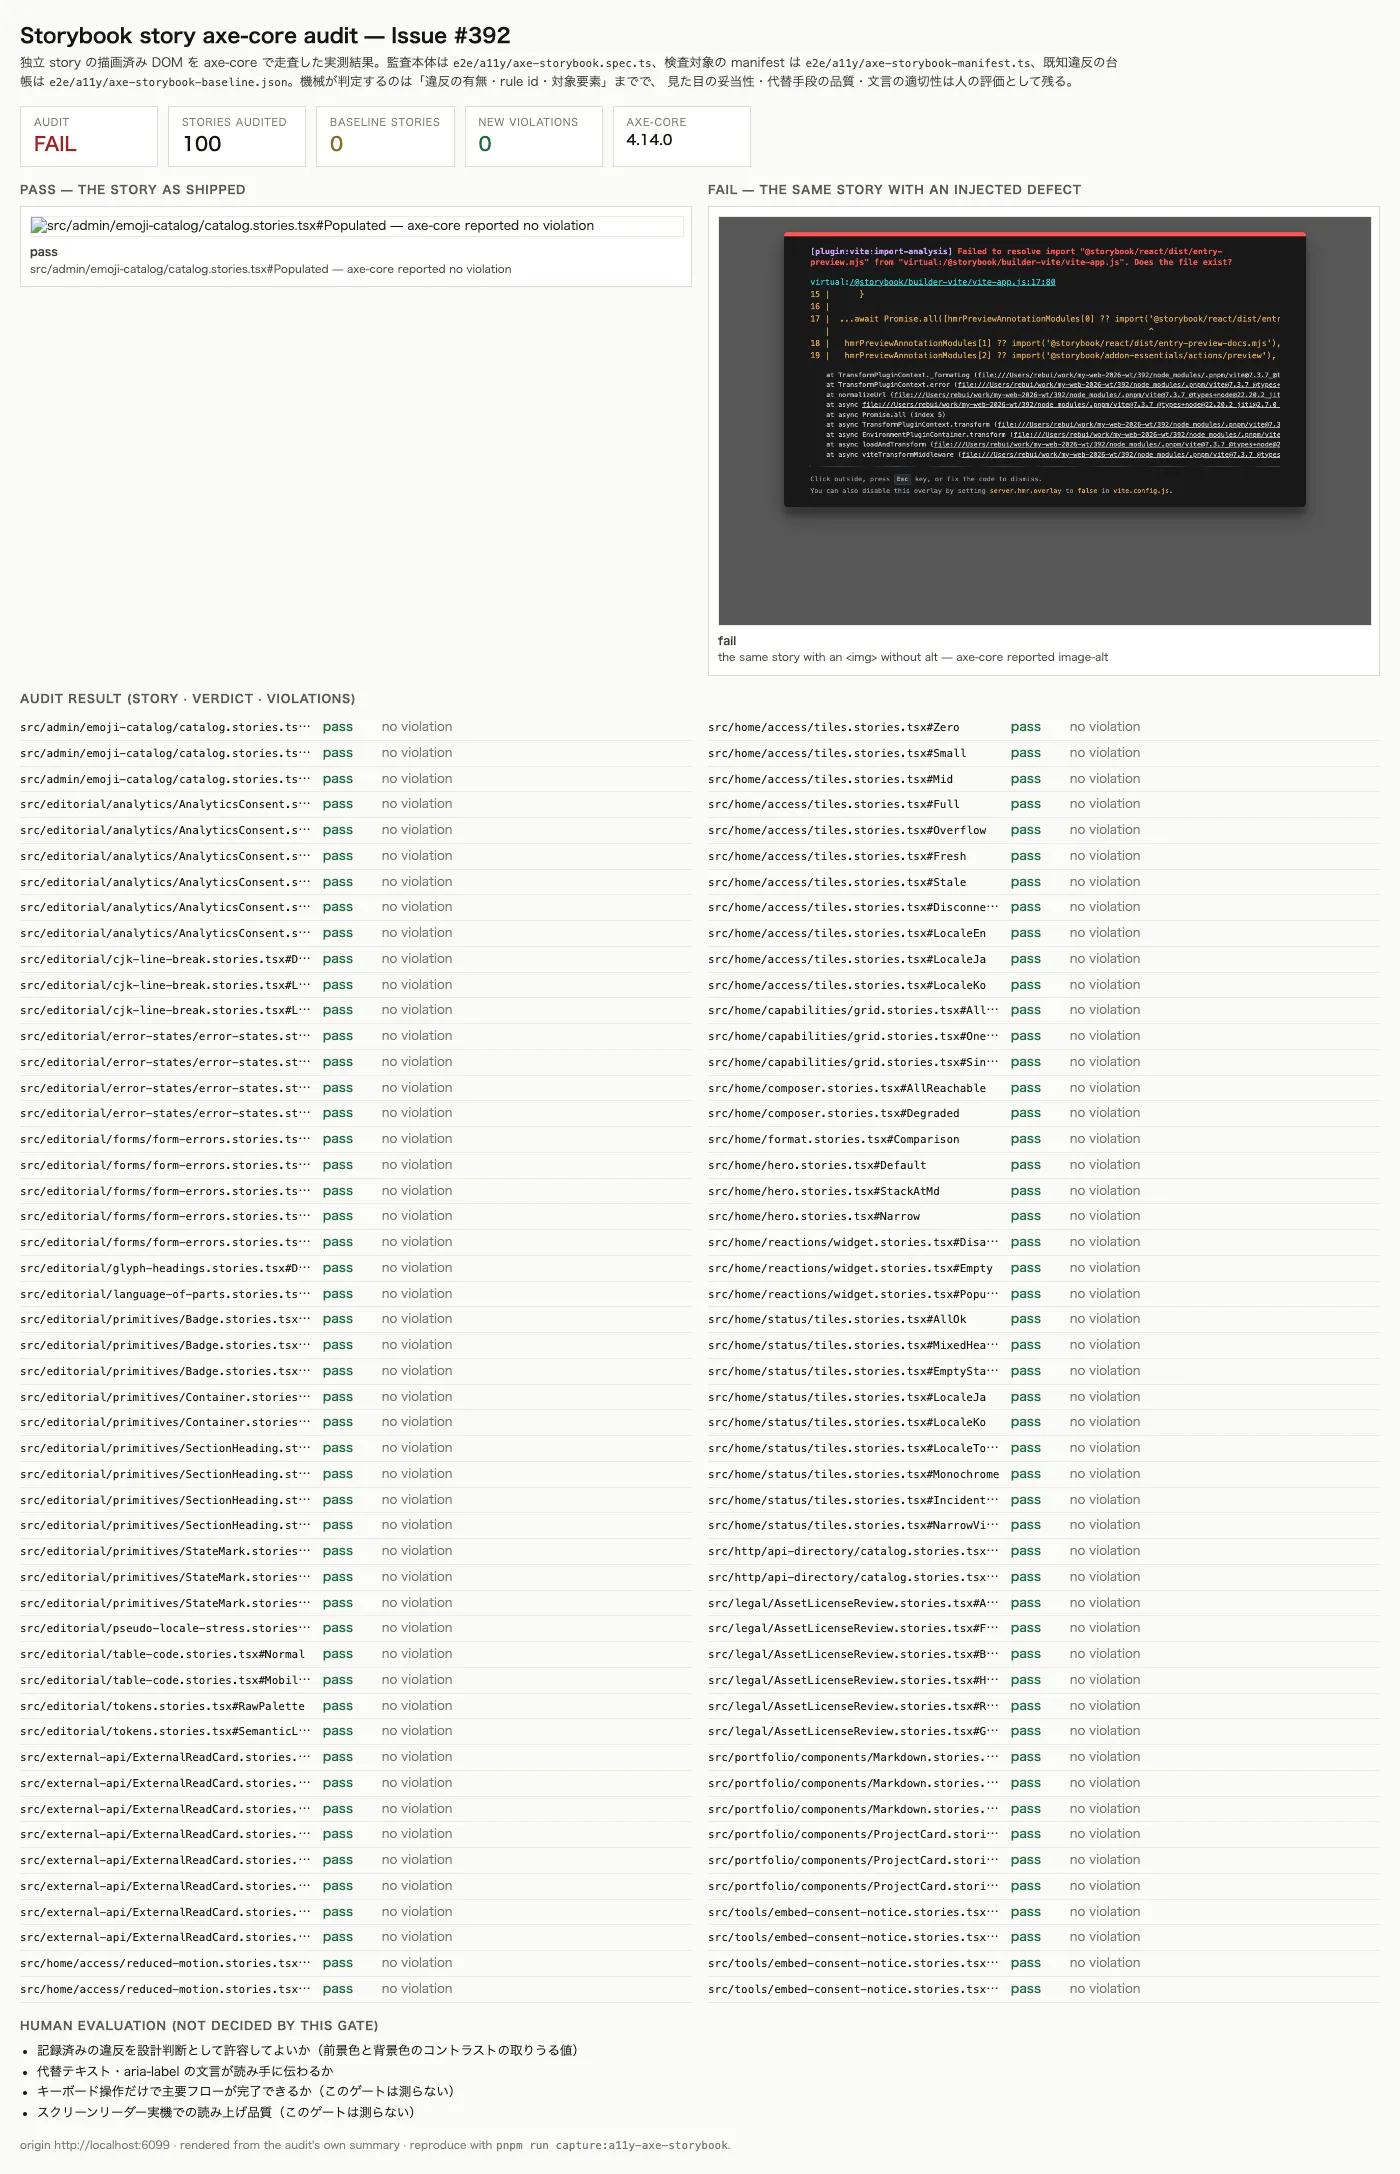
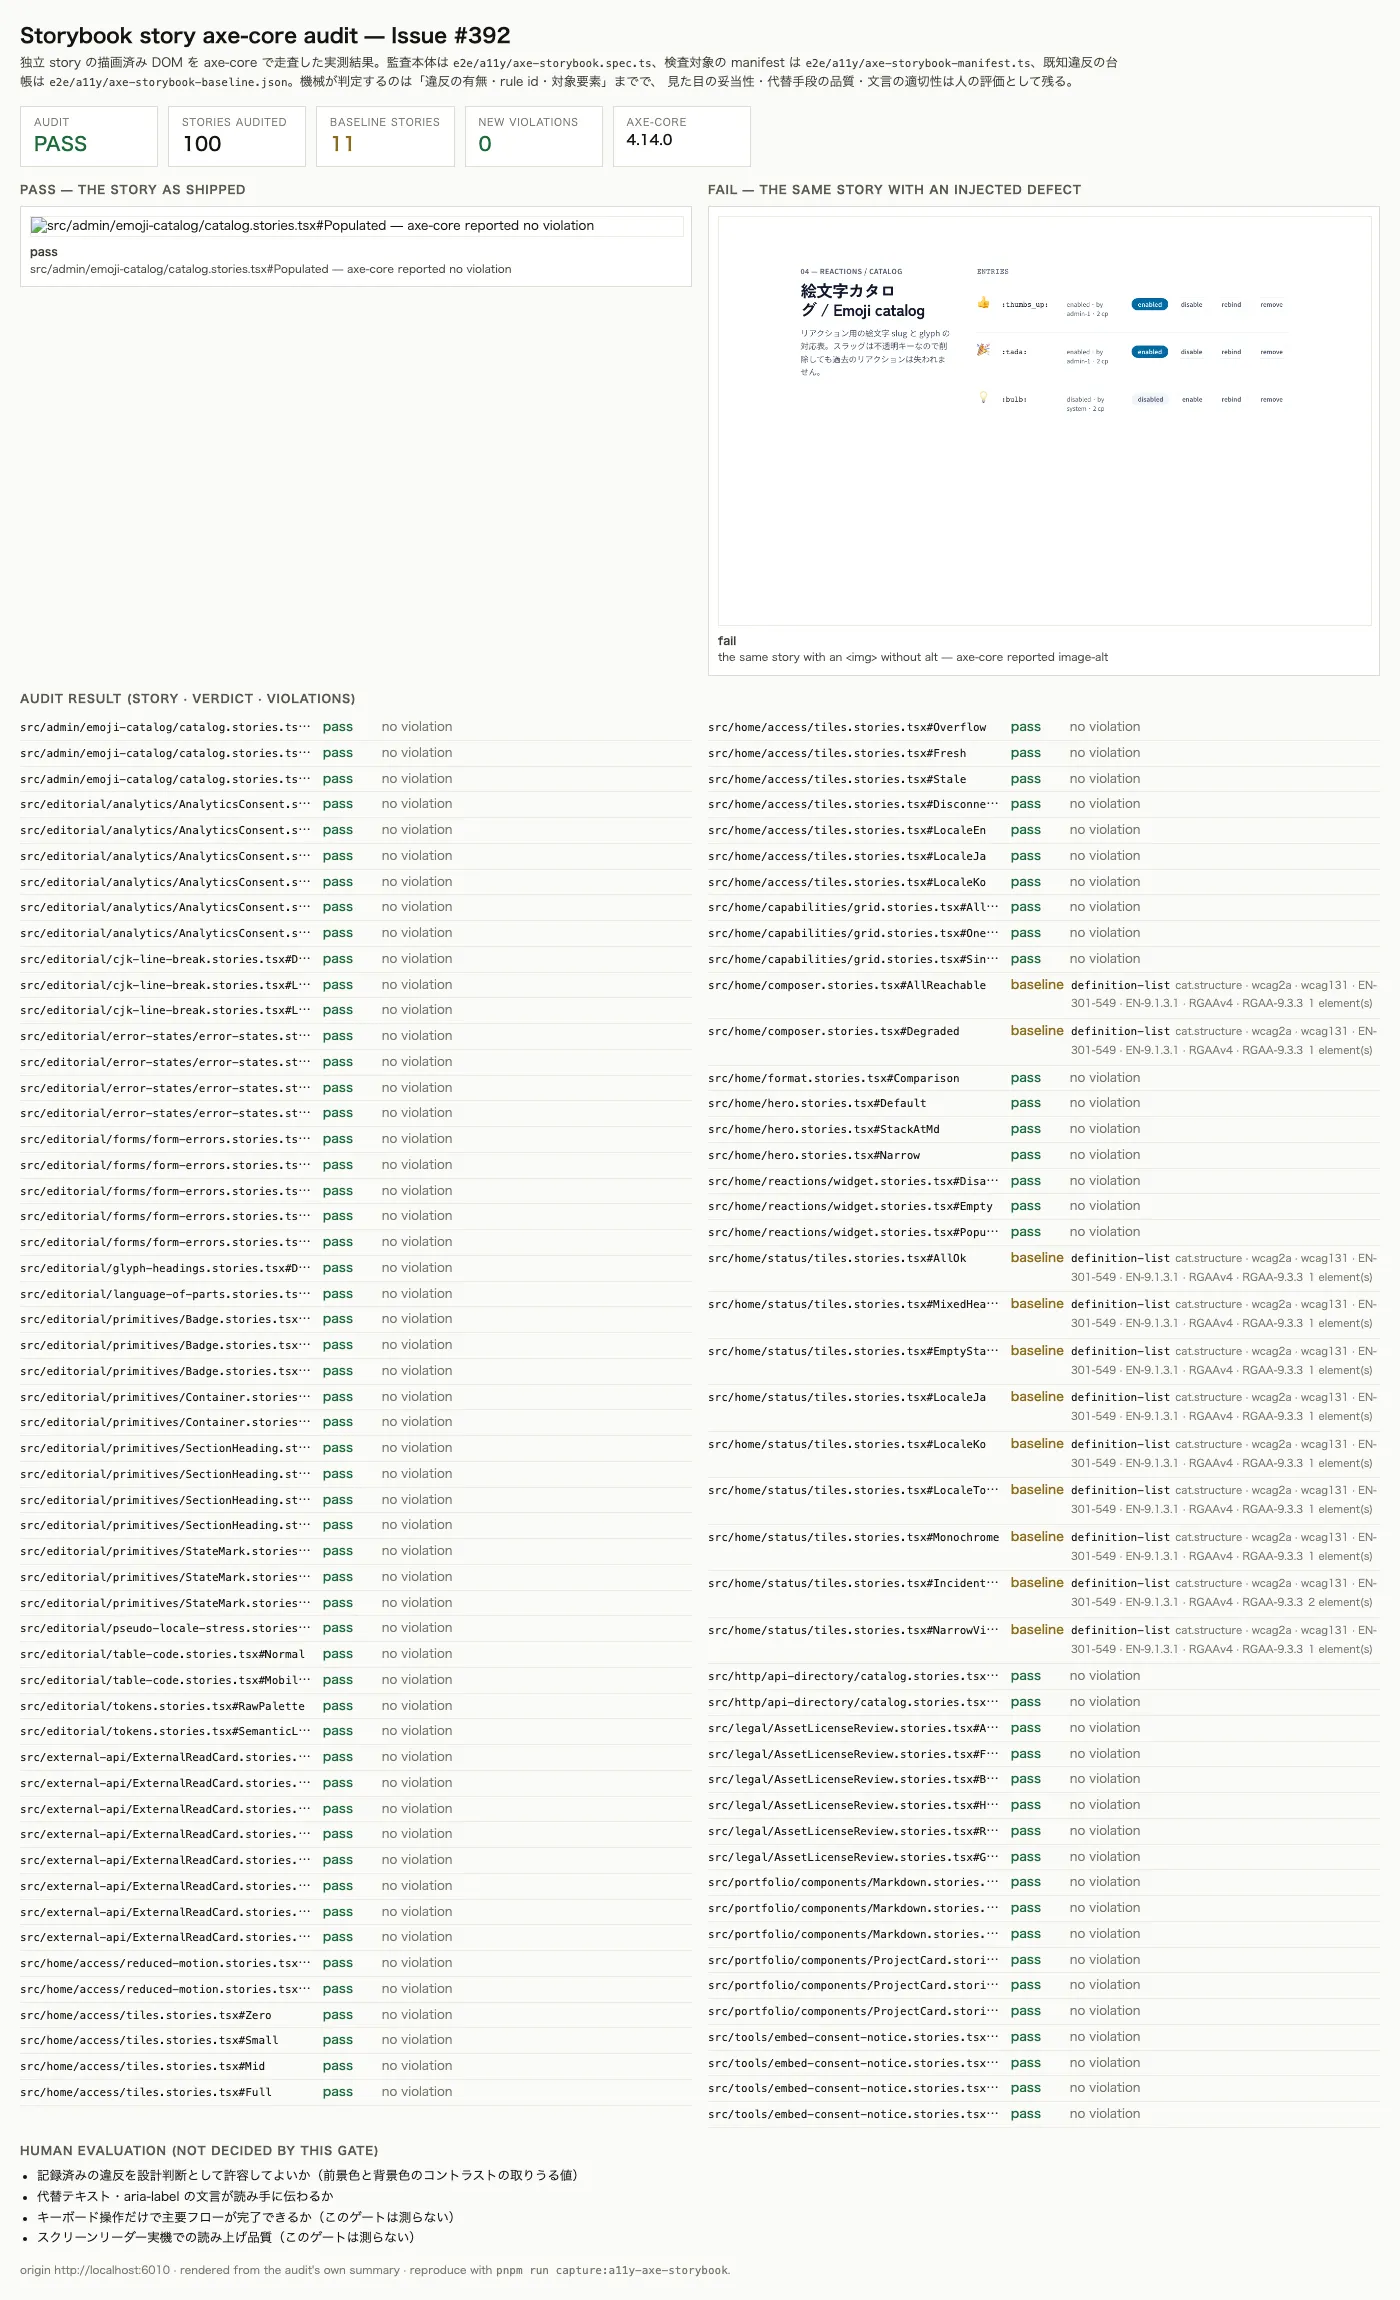
fix(a11y): make the Storybook axe audit measure rendered stories (#392)
The audit was validated against a Storybook dev server that could not
resolve `@storybook/react`: pnpm's strict layout keeps the framework's
preview entry out of the project root, so every story rendered into an
empty `#storybook-root`. The scan then measured nothing, the ledger came
out empty, and the artefact pictured a run that never happened.

- package.json: declare `@storybook/react` as a direct devDependency, so
  the dev server resolves the preview entry and the stories render.
- e2e/a11y/axe-storybook-baseline.json: record the 11 stories that
  measure a `definition-list` violation (SC 1.3.1) — the home status
  list's `<dl>` content model, the same defect the route ledger records
  for `/`.
- e2e/a11y/axe-storybook-manifest.ts: declare the two affected files
  `baseline`; a `pass` declaration may not carry a tolerated violation.
- scripts/capture-a11y-axe-storybook.mjs: refuse to write the artefact
  when the gate is red, so a broken run cannot be photographed as a
  measurement.
- docs/verification/a11y/axe-storybook.md: record the dependency, the
  empty first ledger, and the measured counts.
- docs/verification/a11y/axe-storybook-pass-fail.webp: regenerate from
  the run that measured rendered stories.

diff --git a/e2e/a11y/axe-storybook-manifest.ts b/e2e/a11y/axe-storybook-manifest.ts
@@ -250,8 +250,8 @@ export const AUDITED_STORY_FILES: readonly AuditedStoryFile[] = [
 		file: 'src/home/composer.stories.tsx',
 		title: 'home/HomePage',
 		exports: ['AllReachable', 'Degraded'],
-		expect: 'pass',
-		note: 'Home composition — the whole home surface composed.',
+		expect: 'baseline',
+		note: 'Home composition — the whole home surface composed. The home status list breaks the `<dl>` content model (SC 1.3.1); the ledger records it per story.',
 	},
 	{
 		file: 'src/home/format.stories.tsx',
@@ -288,8 +288,8 @@ export const AUDITED_STORY_FILES: readonly AuditedStoryFile[] = [
 			'IncidentContext',
 			'NarrowViewport',
 		],
-		expect: 'pass',
-		note: 'Status tiles — the service-health states.',
+		expect: 'baseline',
+		note: 'Status tiles — the service-health states. The status list breaks the `<dl>` content model (SC 1.3.1); the ledger records it per story.',
 	},
 	{
 		file: 'src/http/api-directory/catalog.stories.tsx',
